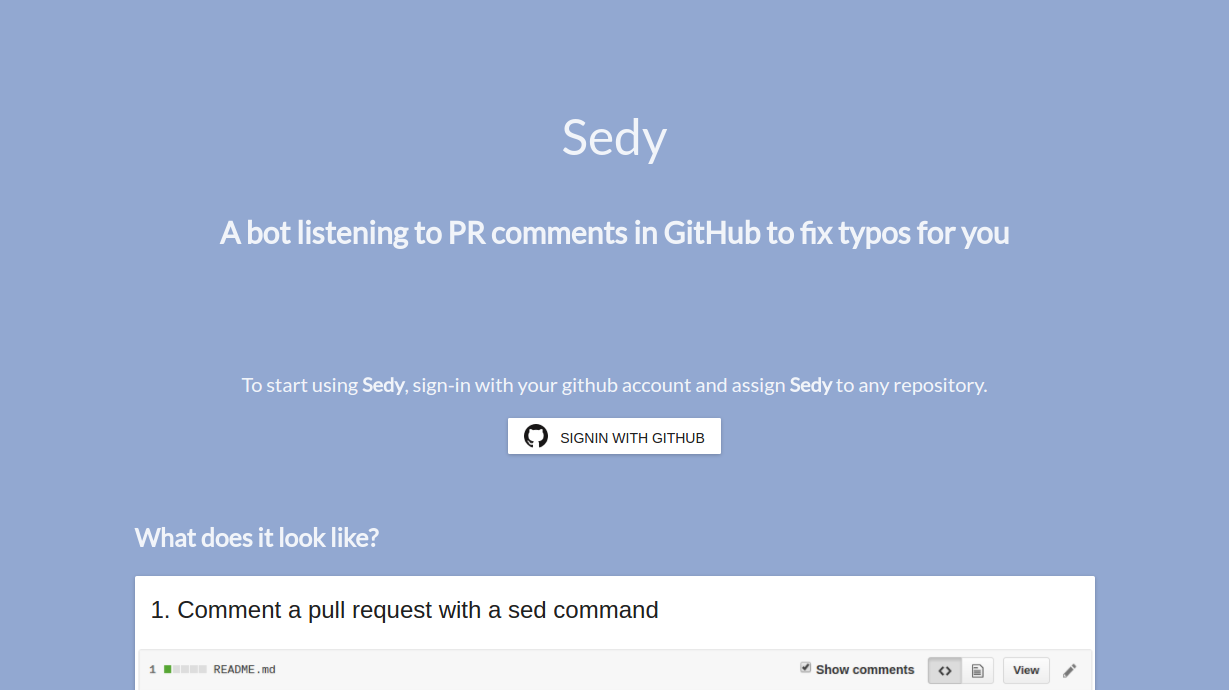
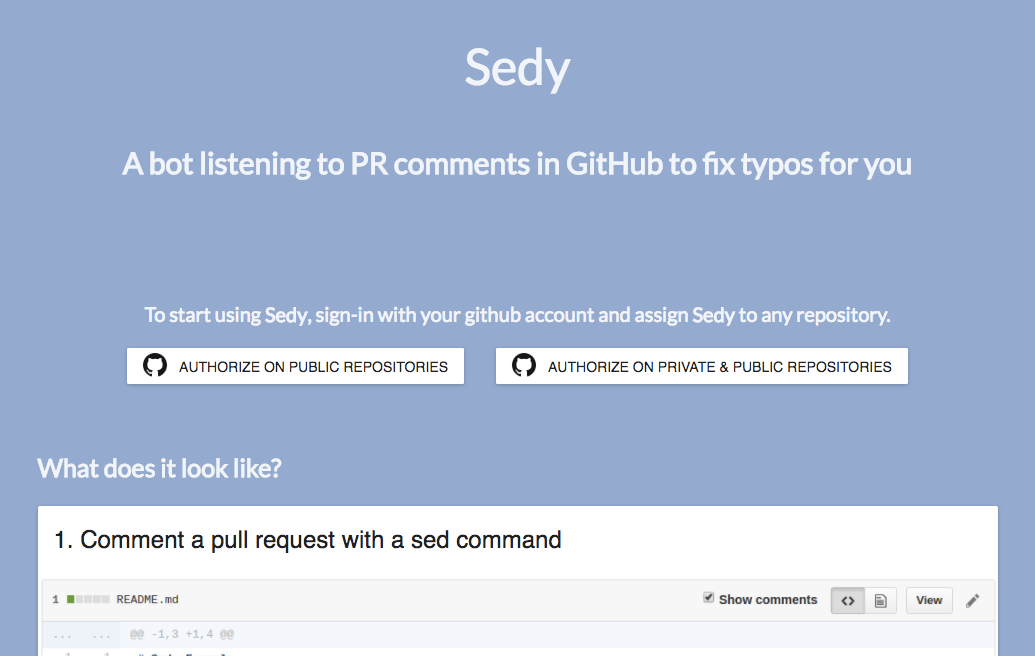
Wording & image update

diff --git a/installer/webpack.config.babel.js b/installer/webpack.config.babel.js
@@ -15,8 +15,8 @@ const gaScript = config.ga ? `<script>
 </script>` : '<!-- no analytics -->';
 
 const htmlConstants = {
-    title: 'Sedy - fix typos for you',
-    description: 'A github webhook based bot to fix typos in pull requests, by @marmelab.',
+    title: 'Sedy - Brings the power of the sed Linux command to Github',
+    description: 'Sedy is a bot that brings the power of the sed Linux command to Github, by @marmelab.',
     url: 'https://marmelab.com/sedy',
     image: 'https://avatars2.githubusercontent.com/u/3116319', // Marmelab GitHub avatar
     ga: gaScript,

diff --git a/installer/js/home.js b/installer/js/home.js
@@ -73,7 +73,7 @@ ReactDOM.render(
                 <div style={styles.tagline}>
                     <h1 style={styles.h1}>Sedy</h1>
                     <h2 style={styles.mainH2}>
-                        A bot listening to PR comments in GitHub to fix typos for you
+                        Brings the power of the sed Linux command to Github
                     </h2>
                 </div>
             </FullWidthSection>
